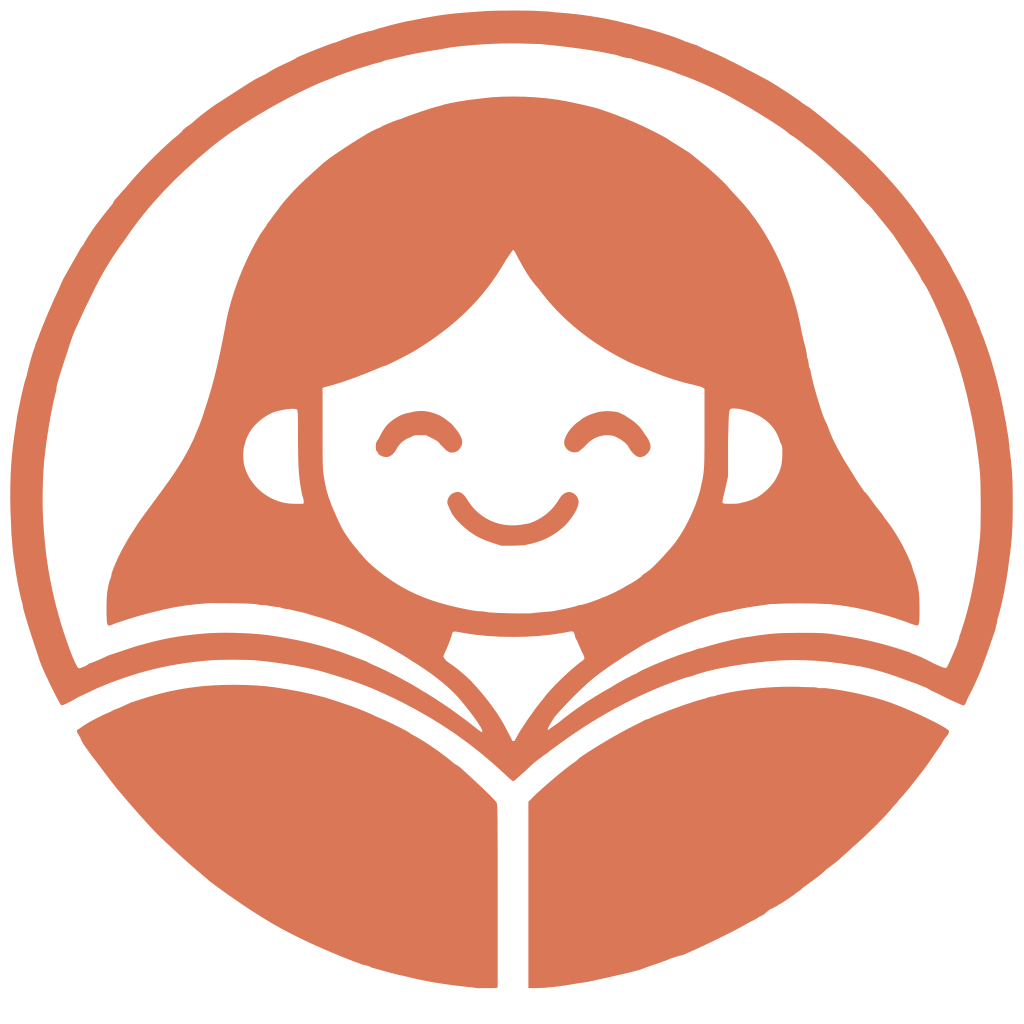
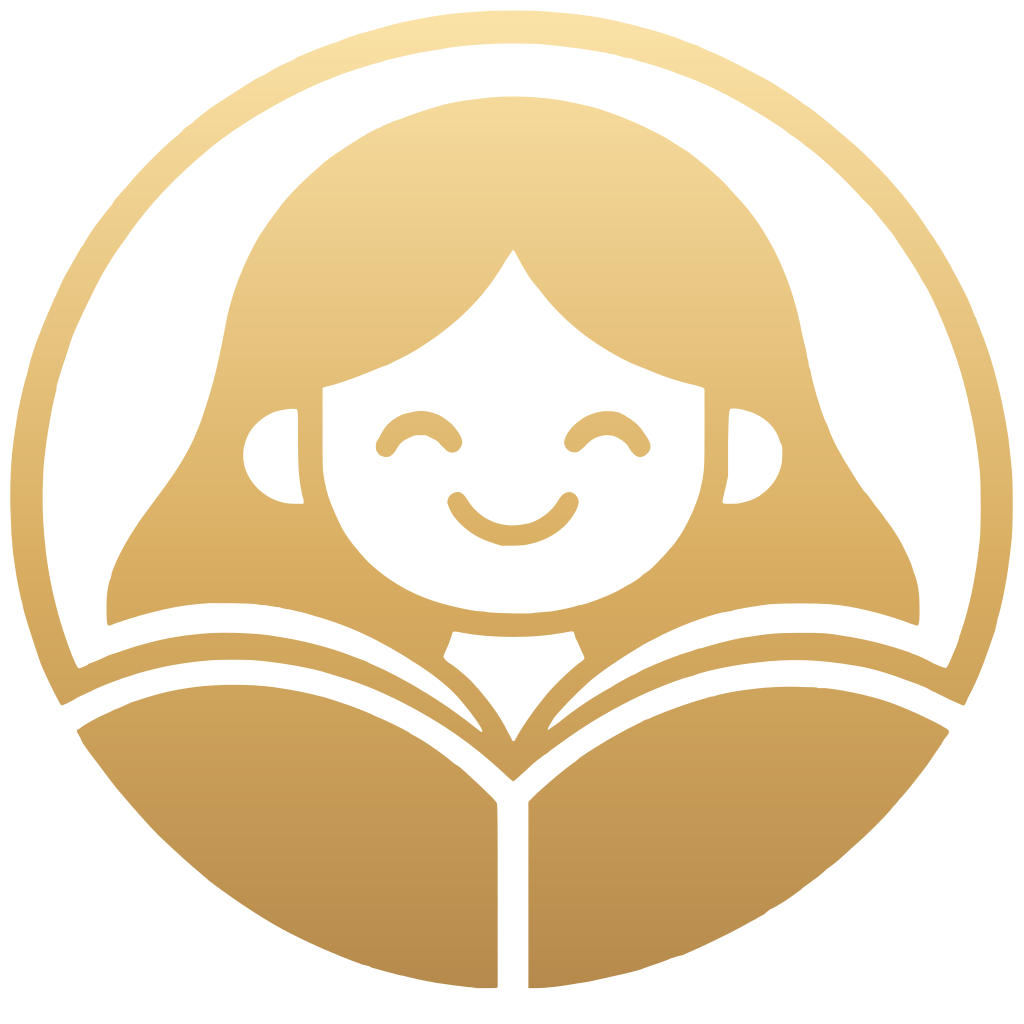
앱 아이콘을 로그인 서점 간판처럼 짙은 초록 바탕 + 금박 로고로(앱 테마색도 초록). 별점 둘째 질문을 '읽기/보기 쉬웠나요?'(별 많을수록 쉬움)로 바꿔 거꾸로 답하는 실수를 없앰(저장 값은 그대로 어려운 정도). 영화는 시작 버튼 없이 바로 '다 봤어요'
Claude-Session: https://claude.ai/code/session_013v9YWfuVk74Go5gSgEZhrT

diff --git a/app/source.html b/app/source.html
@@ -1902,8 +1902,8 @@ const seenNote=i=>{const D=S.progress.done;return D[ik(i,'book')]&&(!!D[ik(i,'m1
 function svStars(q,v){let h='';for(let n=1;n<=5;n++){const st=v>=n?'f':v>=n-.5?'h':'e';h+=`<span class="svs ${st}"><button type="button" class="l" data-act="svset" data-q="${q}" data-v="${n-.5}" aria-label="${n-.5}점"></button><button type="button" class="r" data-act="svset" data-q="${q}" data-v="${n}" aria-label="${n}점"></button></span>`}return h}
 function surveyHTML(){
   const V=S.survey;const it=items()[V.i];const isB=V.k==='book';const name=bTitle(isB?it.book:V.k==='m1'?it.m1:it.m2);
-  const QX={fun:['재미있었나요?',''],diff:['@기 어땠어요?','별이 많을수록 어려웠다는 뜻이에요'],again:['나중에 다시 @고 싶나요?','']};
-  const rows=SVQ.map(([q,t])=>{const v=Number(V.v[q])||0;const [a,s2]=QX[q]||[t,''];return `<div class="svq"><b>${esc(a.replace('@',isB?'읽':'보'))}</b>${s2?`<small>${s2}</small>`:''}<div class="svr" role="group" aria-label="${t} 별점">${svStars(q,v)}<span class="svn">${v?`${v.toFixed(1)}점`:''}</span></div></div>`}).join('');
+  const QX={fun:['재미있었나요?',''],diff:['@기 쉬웠나요?','별이 많을수록 쉬웠다는 뜻이에요'],again:['나중에 다시 @고 싶나요?','']};
+  const rows=SVQ.map(([q,t])=>{const raw=Number(V.v[q])||0;const v=q==='diff'&&raw?5.5-raw:raw;/* 난이도는 '쉬웠나요?'로 묻고(별 많을수록 쉬움) 저장은 그대로 '어려운 정도'(5.5-별)로 */const [a,s2]=QX[q]||[t,''];return `<div class="svq"><b>${esc(a.replace('@',isB?'읽':'보'))}</b>${s2?`<small>${s2}</small>`:''}<div class="svr" role="group" aria-label="${t} 별점">${svStars(q,v)}<span class="svn">${v?`${v.toFixed(1)}점`:''}</span></div></div>`}).join('');
   const ok=SVQ.every(([q])=>V.v[q]);
   return `<div class="panel svp"><div class="ph"><h2>「${esc(name)}」 어땠어요?<small>세 가지만 누르면 끝 · 10초</small></h2><button class="x" data-act="svclose" aria-label="닫기">${IC.x}</button></div>
   ${V.msg?`<p class="mok" role="status">${IC.check}<span>${esc(V.msg)}</span></p>`:''}${rows}
@@ -3012,6 +3012,7 @@ function wkRowHTML(i,k,cur){
   const stat=on?`<em class="dn">${IC.check} ${r?r.days+'일 만에 끝'+(r.ppd?' · 하루 '+r.ppd+'쪽':''):'끝'}</em>`:st?`<em class="nw">${v[1]} 중 · ${Math.max(1,Math.ceil((Date.now()-st)/864e5))}일째</em>`:`<em>아직</em>`;
   const a=on?(sv?`<button class="wk-b ok" data-act="wkundo" data-i="${i}" data-k="${k}" aria-label="${kind} 「${esc(name)}」 끝냄 (두 번 누르면 취소)">${IC.check}끝</button>`:`<button class="wk-b go" data-act="svopen" data-i="${i}" data-k="${k}">별점 남기기</button>`)
     :st?`<button class="wk-b go" data-act="done" data-i="${i}" data-k="${k}" aria-label="${kind} 「${esc(name)}」 다 ${v[2]}">다 ${v[2]}</button>`
+    :k!=='book'?`<button class="wk-b go" data-act="done" data-i="${i}" data-k="${k}" aria-label="${kind} 「${esc(name)}」 다 ${v[2]}">다 ${v[2]}</button>`/* 영화는 시작 없이 바로 '다 봤어요'(2026-11-26) */
     :`<button class="wk-b" data-act="start" data-i="${i}" data-k="${k}" aria-label="${kind} 「${esc(name)}」 ${v[0]} 시작">${v[0]} 시작</button>`;
   const pg=on&&k==='book'&&r&&!r.pg?(S.pgBusy===key?'<span class="pgin hint">책 쪽수를 찾고 있어요…</span>':`<span class="pgin"><input id="pg-${i}" type="number" inputmode="numeric" min="1" max="4999" placeholder="책 페이지" aria-label="책 총 쪽수"><button class="chip" data-act="pgsave" data-i="${i}">하루 읽은 페이지</button></span>`):'';
   return `<div class="wk${cur?' cur':''}${on?' on':''}">
@@ -3026,6 +3027,7 @@ function mactHTML(i){
   if(tab==='work'&&nx&&nx.k==='work'){const w=wkNext(i);if(w){const nm=bTitle(wkName(it,w.k));const v=wkVerb(w.k);
       if(w.s==='rate'){hint='세 가지만 누르면 끝 · 10초';b=`<button class="btn mact-b" data-act="svopen" data-i="${i}" data-k="${w.k}">「${esc(nm)}」 별점 남기기</button>`}
       else if(w.s==='doing'){hint='누르면 10초 별점이 나와요';b=`<button class="btn mact-b" data-act="done" data-i="${i}" data-k="${w.k}">「${esc(nm)}」 다 ${v[2]}</button>`}
+      else if(w.k!=='book'){hint='누르면 10초 별점이 나와요';b=`<button class="btn mact-b" data-act="done" data-i="${i}" data-k="${w.k}">「${esc(nm)}」 다 ${v[2]}</button>`}
       else{hint='시작을 누르면 친구와 부모님께 알려요';b=`<button class="btn mact-b" data-act="start" data-i="${i}" data-k="${w.k}">「${esc(nm)}」 ${v[0]} 시작</button>`}}}
   else if(tab==='note'&&!(pos>=0&&st[pos].done)){const n=(S.progress.notes||{})[nk(i)]||{};
     b=`<button class="btn mact-b" disabled>${!n.sentence?'책에서 마음에 남은 문장을 적어 주세요':'영화에서 기억에 남은 장면을 적어 주세요'}</button>`;hint='두 칸을 채우면 다음 단계로 갈 수 있어요'}
@@ -6156,7 +6158,7 @@ document.addEventListener('click',async e=>{
     case 'close1':if(S.wr){wrClose()}if(OREC)orStop();orSayStop();S.sheet=null;S.info=null;S.evalView=null;S.oralView=null;S.oralHist=null;S.admin=null;S.bulk=null;render();break;
     case 'wropen':if(!svReady(+d.i)){toast('책과 영화 한 편을 끝내고 별점을 먼저 남겨 주세요.');break}wrOpen(+d.i);break;
     case 'svopen':S.survey={i:+d.i,k:d.k,v:Object.assign({},svOf(+d.i,d.k))};renderLayers();break;
-    case 'svset':if(S.survey){S.survey.v[d.q]=+d.v;renderLayers()}break;
+    case 'svset':if(S.survey){S.survey.v[d.q]=d.q==='diff'?5.5-(+d.v):+d.v;renderLayers()}break;
     case 'mbrate':{const o=rateObj(d.sc,d.id);if(!o)break;o[d.q]=+d.v;
       const box=document.querySelector(`[data-rbox="${d.sc}:${CSS.escape(d.id)}"]`);if(box)box.outerHTML=rateBox(d.sc,d.id,o);  // 입력 중인 글이 지워지지 않게 별점 칸만 다시 그린다
       if(d.sc==='rv')bkBtn();if(d.sc==='shelf'){saveProgress();const l=document.querySelector('.sdrate');if(l)l.textContent=rateLine(o)}break}
